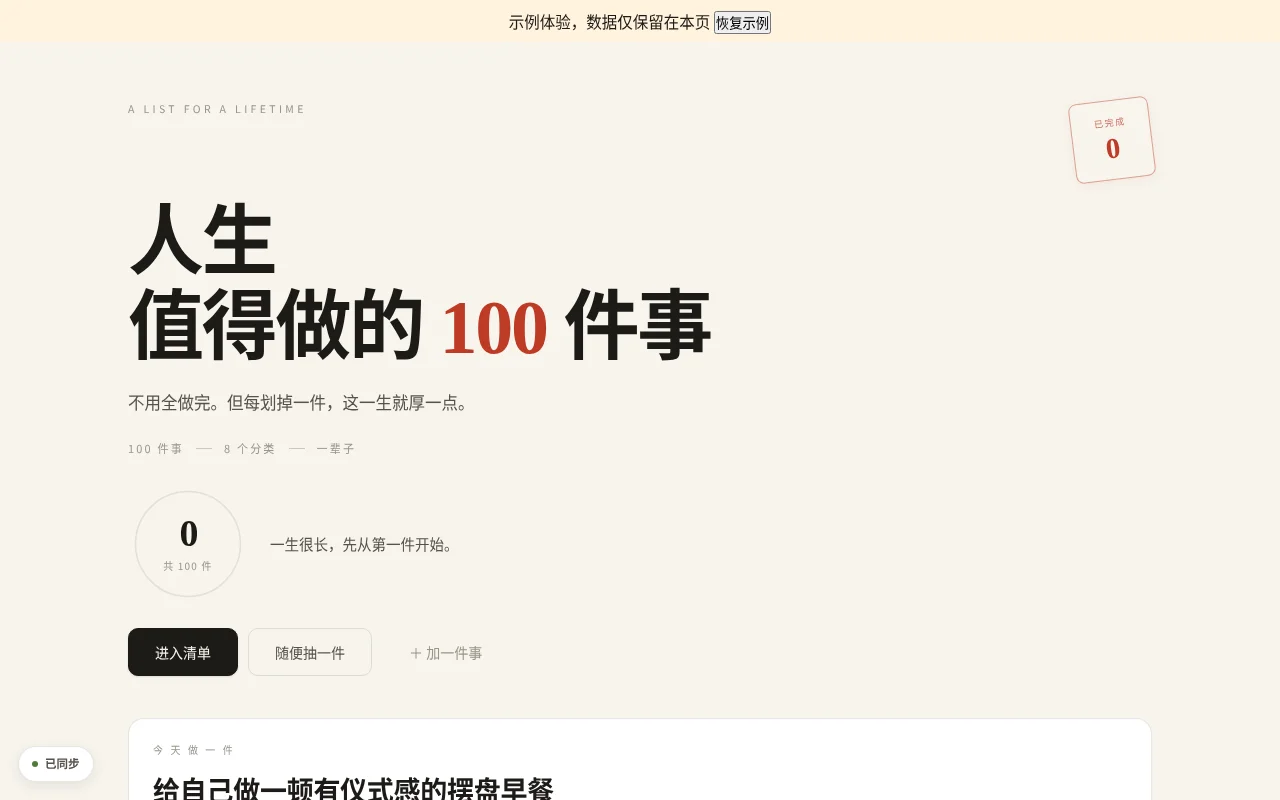
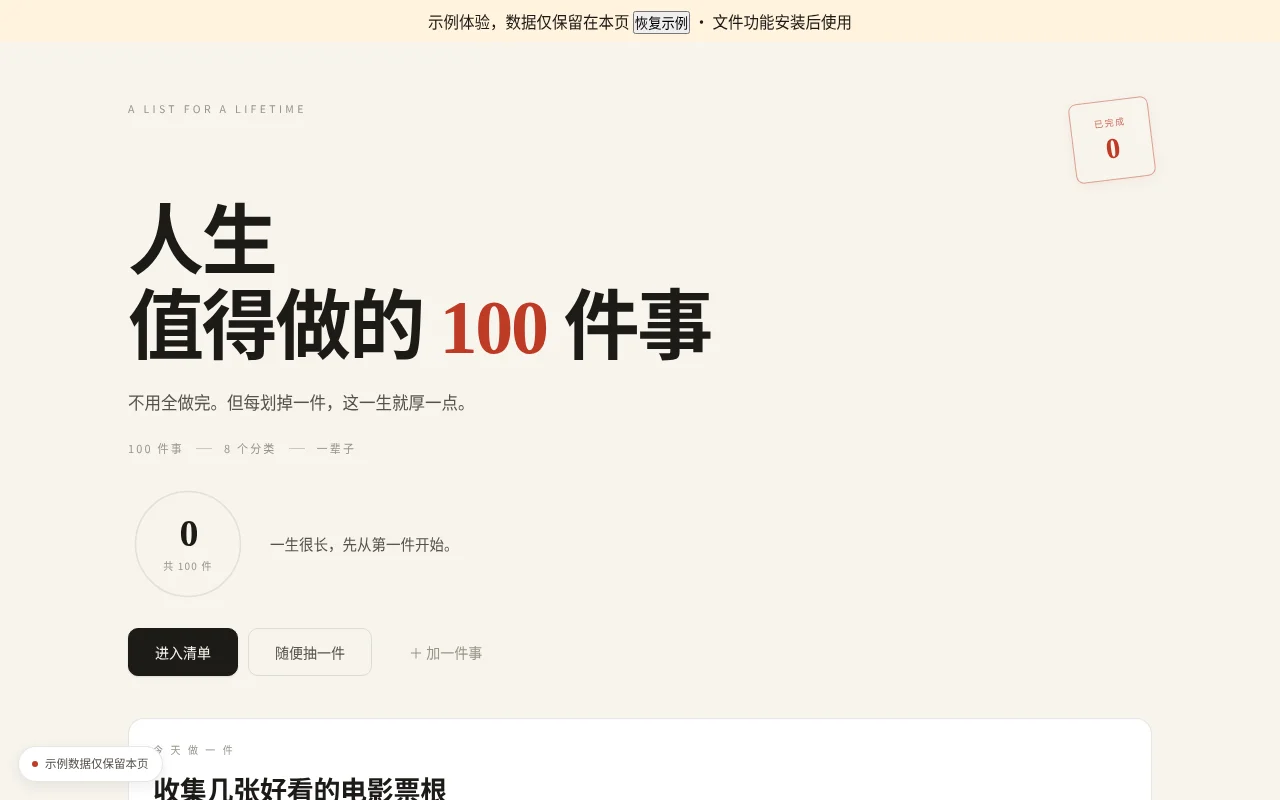
Clarify preview and persistence guidance

Changed region(s): [[0.3438, 0.0, 0.6562, 0.0625], [0.0312, 0.9375, 0.4375, 1.0]]

diff --git a/wb1024-c624-a24dfbd4/showcase/preview.html b/wb1024-c624-a24dfbd4/showcase/preview.html
@@ -487,7 +487,7 @@
   @media (prefers-reduced-motion: reduce){
     *{animation-duration:.01ms!important;animation-iteration-count:1!important;transition-duration:.01ms!important}
   }
-</style><body><div style="background:#fff3dd;padding:8px;text-align:center">示例体验，数据仅保留在本页 <button id="resetDemo">恢复示例</button></div><div id="app">
+</style><body><div style="background:#fff3dd;padding:8px;text-align:center">示例体验，数据仅保留在本页 <button id="resetDemo">恢复示例</button> · 文件功能安装后使用</div><div id="app">
 <div class="page">
   <section class="view active" id="viewHome">
     <div class="cover">
@@ -588,7 +588,7 @@
   <footer>
     <b>怎么用：</b>点任意一张卡片就算打卡。已登录时进度自动存云端，换设备、换浏览器都不会丢；已打卡的事可以点「记一笔」补上当时的<em>心情</em>、<em>备注</em>和<em>照片</em>。<br>
     <b>想改清单？</b>每张卡片有「编辑 / 删除」，右上角「＋ 加一件事」可以加你自己的目标。<br>
-    <b>注意：</b>未登录时数据只存在当前浏览器；重要进度可用首页「导出备份」存一份本地文件。
+    <b>注意：</b>数据保存在应用中；重要进度可用首页「导出备份」存一份本地文件。
   </footer>
   </section>
 
@@ -622,9 +622,9 @@
   <div class="amain" id="achList"></div>
 
   <footer>
-    <b>人数统计暂不可用，个人成就仍可正常查看。<br>
-    <b>已获得 / 未获得：</b>登录状态下按你账号的进度判断；未登录时按这台设备的本地记录判断。<br>
-    <b>注意：</b>未登录时的解锁只记在本机，登录后会自动补录到全局人数里。
+    <b>人数统计：</b>暂不可用，个人成就仍可正常查看。<br>
+    <b>已获得 / 未获得：</b>按当前应用的进度判断。<br>
+    <b>注意：</b>解锁随应用数据保存。
   </footer>
   </section>
 </div>
@@ -1706,7 +1706,7 @@ function toast(text){
     toastTimer = null;
     if (syncState.st) paintSync();
     else if (syncState.st) paintSync();   // 还原 toast 前的真实状态（含 error）
-    else setSync('synced');
+    else setSync('offline','示例数据仅保留本页');
   }, 2600);
 }
 
@@ -2170,14 +2170,14 @@ document.getElementById('app').style.pointerEvents='none';
  try { const rows=[];
  if(rows.length){ const p=JSON.parse(rows[0].payload); state.tasks=p.tasks; state.done=p.done; achUnlocked=p.ach || {}; normalizeDone(); }
  else { state.tasks=buildDefaultTasks(); state.done={}; achUnlocked={}; }
- refreshAll(); switchView('home'); setSync('synced'); document.getElementById('app').style.pointerEvents='';
+ refreshAll(); switchView('home'); setSync('offline','示例数据仅保留本页'); document.getElementById('app').style.pointerEvents='';
  } catch(e) { setSync('error','读取失败，请刷新重试'); console.error(e); }
 })();
 let saving = false, queued = false;
 async function saveCloud(){
  if(saving){ queued=true; return; }
  saving=true; const payload=JSON.stringify(buildPayload());
- try { void payload; setSync('synced'); }
+ try { void payload; setSync('offline','示例数据仅保留本页'); }
  catch(e){ setSync('error','保存结果未确认，请刷新核对'); console.error(e); queued=false; saving=false; return; }
  saving=false; if(queued){ queued=false; saveCloud(); }
 }
@@ -2250,4 +2250,5 @@ document.getElementById('todayCard').addEventListener('click', function(e){
 
 
 document.getElementById('resetDemo').onclick=function(){state.tasks=buildDefaultTasks(); state.done={}; achUnlocked={}; state.todayPick=null; refreshAll(); switchView('home');};
+for (const id of ['exportBtn','importFileBtn','homeShare','shareBtn']) {const el=document.getElementById(id); if(el){el.disabled=true;el.title='安装后使用';}}
 </script></body></html>

diff --git a/wb1024-c624-a24dfbd4/src/body.html b/wb1024-c624-a24dfbd4/src/body.html
@@ -99,7 +99,7 @@
   <footer>
     <b>怎么用：</b>点任意一张卡片就算打卡。已登录时进度自动存云端，换设备、换浏览器都不会丢；已打卡的事可以点「记一笔」补上当时的<em>心情</em>、<em>备注</em>和<em>照片</em>。<br>
     <b>想改清单？</b>每张卡片有「编辑 / 删除」，右上角「＋ 加一件事」可以加你自己的目标。<br>
-    <b>注意：</b>未登录时数据只存在当前浏览器；重要进度可用首页「导出备份」存一份本地文件。
+    <b>注意：</b>数据保存在应用中；重要进度可用首页「导出备份」存一份本地文件。
   </footer>
   </section>
 
@@ -133,9 +133,9 @@
   <div class="amain" id="achList"></div>
 
   <footer>
-    <b>人数统计暂不可用，个人成就仍可正常查看。<br>
-    <b>已获得 / 未获得：</b>登录状态下按你账号的进度判断；未登录时按这台设备的本地记录判断。<br>
-    <b>注意：</b>未登录时的解锁只记在本机，登录后会自动补录到全局人数里。
+    <b>人数统计：</b>暂不可用，个人成就仍可正常查看。<br>
+    <b>已获得 / 未获得：</b>按当前应用的进度判断。<br>
+    <b>注意：</b>解锁随应用数据保存。
   </footer>
   </section>
 </div>
